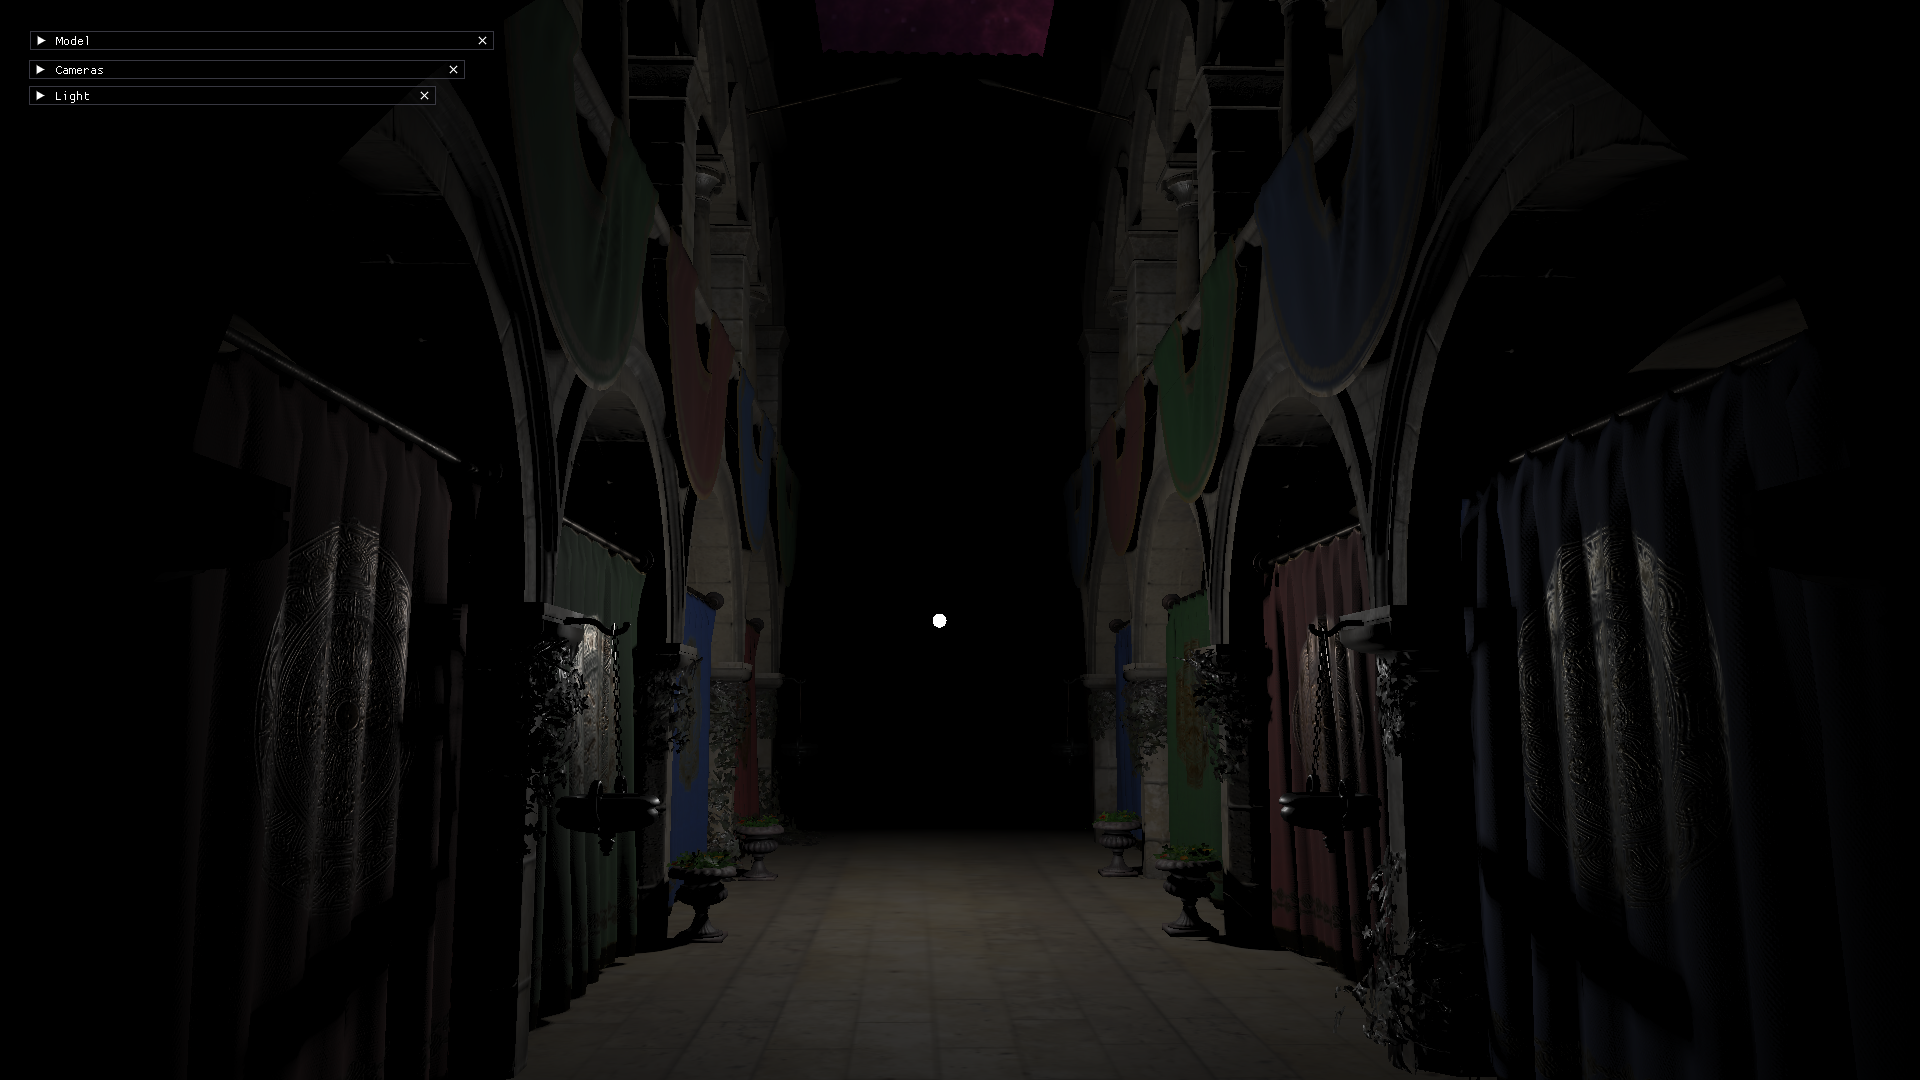
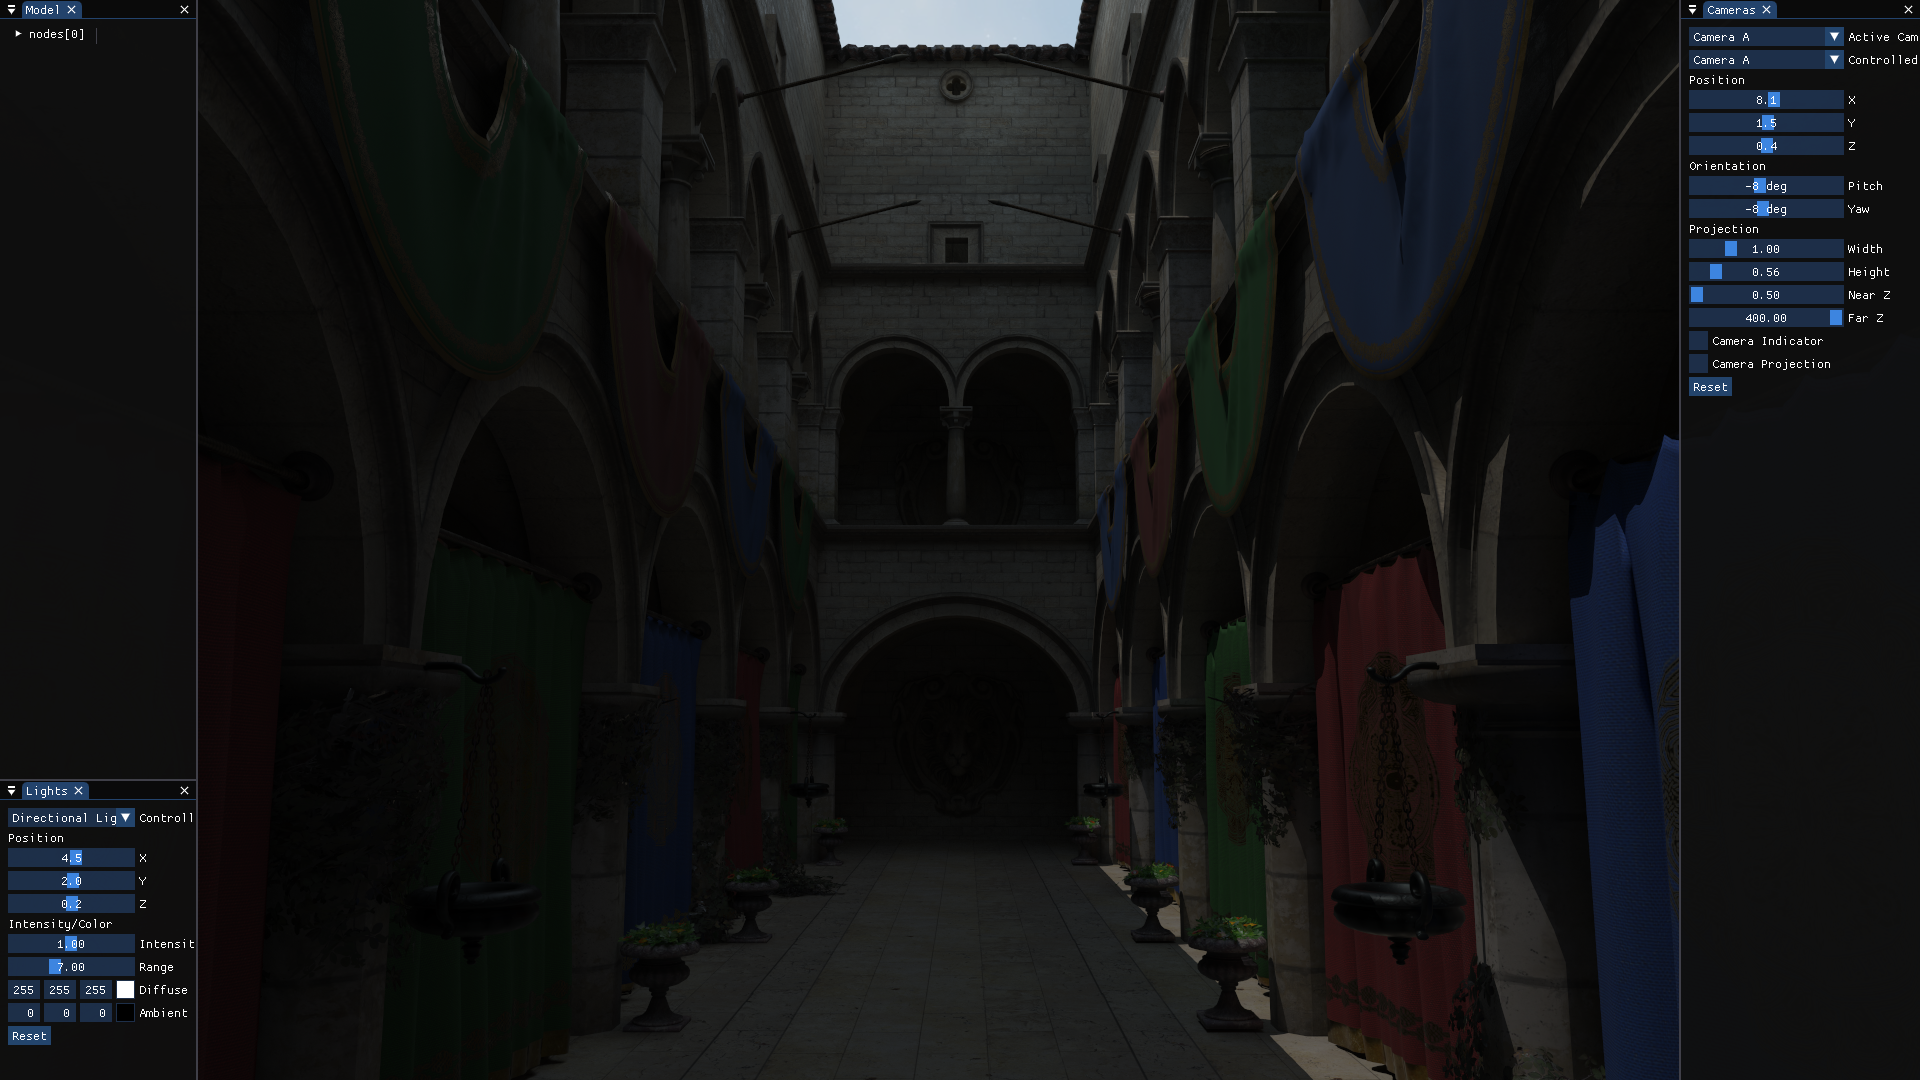
Removed point light, added alpha mode for transparency, updated skybox and updated readme image.

diff --git a/Engine/source/Renderer/Model.cpp b/Engine/source/Renderer/Model.cpp
@@ -57,6 +57,11 @@ namespace Renderer
 				m_materials[i].pbrBaseColorFactor.z = baseColor.b;
 				material.Get(AI_MATKEY_METALLIC_FACTOR, m_materials[i].pbrMetallicFactor);
 				material.Get(AI_MATKEY_ROUGHNESS_FACTOR, m_materials[i].pbrRoughnessFactor);
+				aiString alphaMode;
+				material.Get(AI_MATKEY_GLTF_ALPHAMODE, alphaMode);
+				if (alphaMode == aiString("OPAQUE")) m_materials[i].gltfAlphaMode = AlphaMode::Opaque;
+				else if (alphaMode == aiString("MASK")) m_materials[i].gltfAlphaMode = AlphaMode::Mask;
+				else if (alphaMode == aiString("BLEND")) m_materials[i].gltfAlphaMode = AlphaMode::Blend;
 			}
 		}
 

diff --git a/Engine/source/Renderer/RenderGraph.cpp b/Engine/source/Renderer/RenderGraph.cpp
@@ -15,7 +15,7 @@ namespace Renderer
 		RenderGraph::m_frameResourceHandles["Depth_Stencil"] = gfx.LoadResource(std::make_shared<DepthStencil>(gfx));
 
 		m_frameData.resolution = Vector2(static_cast<float>(gfx.GetWidth()), static_cast<float>(gfx.GetHeight()));
-		m_frameData.envMapHandle = gfx.LoadResource(std::make_shared<CubeMapTexture>(gfx, L"data\\textures\\SpaceBox"));
+		m_frameData.envMapHandle = gfx.LoadResource(std::make_shared<CubeMapTexture>(gfx, L"data\\textures\\Ocean"));
 
 	}
 

diff --git a/Engine/source/Renderer/Model.h b/Engine/source/Renderer/Model.h
@@ -29,12 +29,20 @@ namespace Renderer
 		Uint32 verticesCount;
 	};
 
+	enum class AlphaMode : Uint8
+	{
+		Opaque,
+		Blend,
+		Mask
+	};
+
 	struct MaterialData
 	{
 		Vector3 pbrBaseColorFactor = Vector3(1.0f, 1.0f, 1.0f);
 		float pbrMetallicFactor = 1.0f;
 		float pbrRoughnessFactor = 1.0f;
 		float gltfAlphaCutoff = 0.5f;
+		AlphaMode gltfAlphaMode = AlphaMode::Opaque;
 		ResourceHandle diffuseIdx = -1;
 		ResourceHandle normalIdx = -1;
 		ResourceHandle roughnessMetallicIdx = -1;

diff --git a/Engine/source/Renderer/AccelerationStructure.cpp b/Engine/source/Renderer/AccelerationStructure.cpp
@@ -31,7 +31,7 @@ namespace Renderer
 			rtGeometry.indexBufferOffset = submesh.indicesOffset;
 			rtGeometry.indexCount = submesh.indicesCount;
 			rtGeometry.indexFormat = DXGI_FORMAT_R32_UINT;
-			rtGeometry.opaque = true; // Always opaque for now
+			rtGeometry.opaque = material.gltfAlphaMode == AlphaMode::Opaque;
 
 			D3D12RTInstance& rtInstance = m_rtInstances.emplace_back();
 			rtInstance.instanceId = instanceId++;
